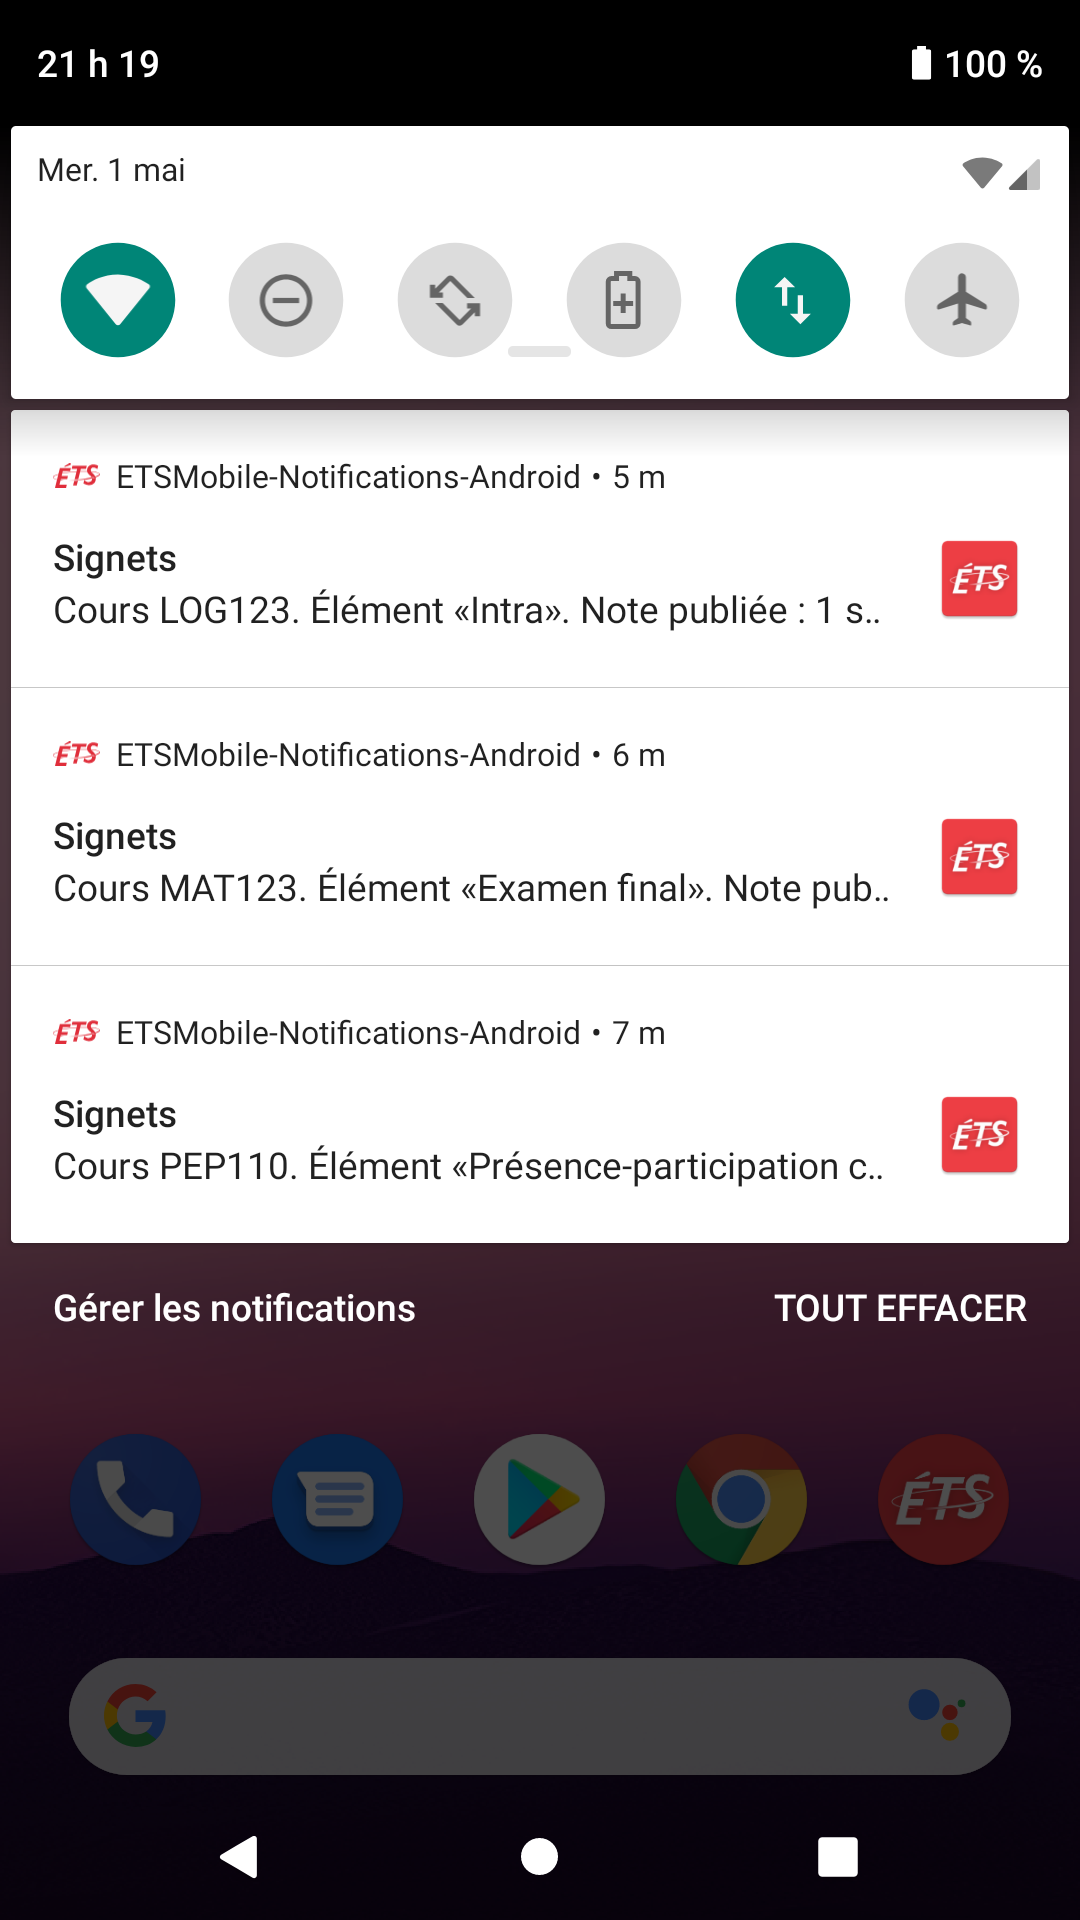
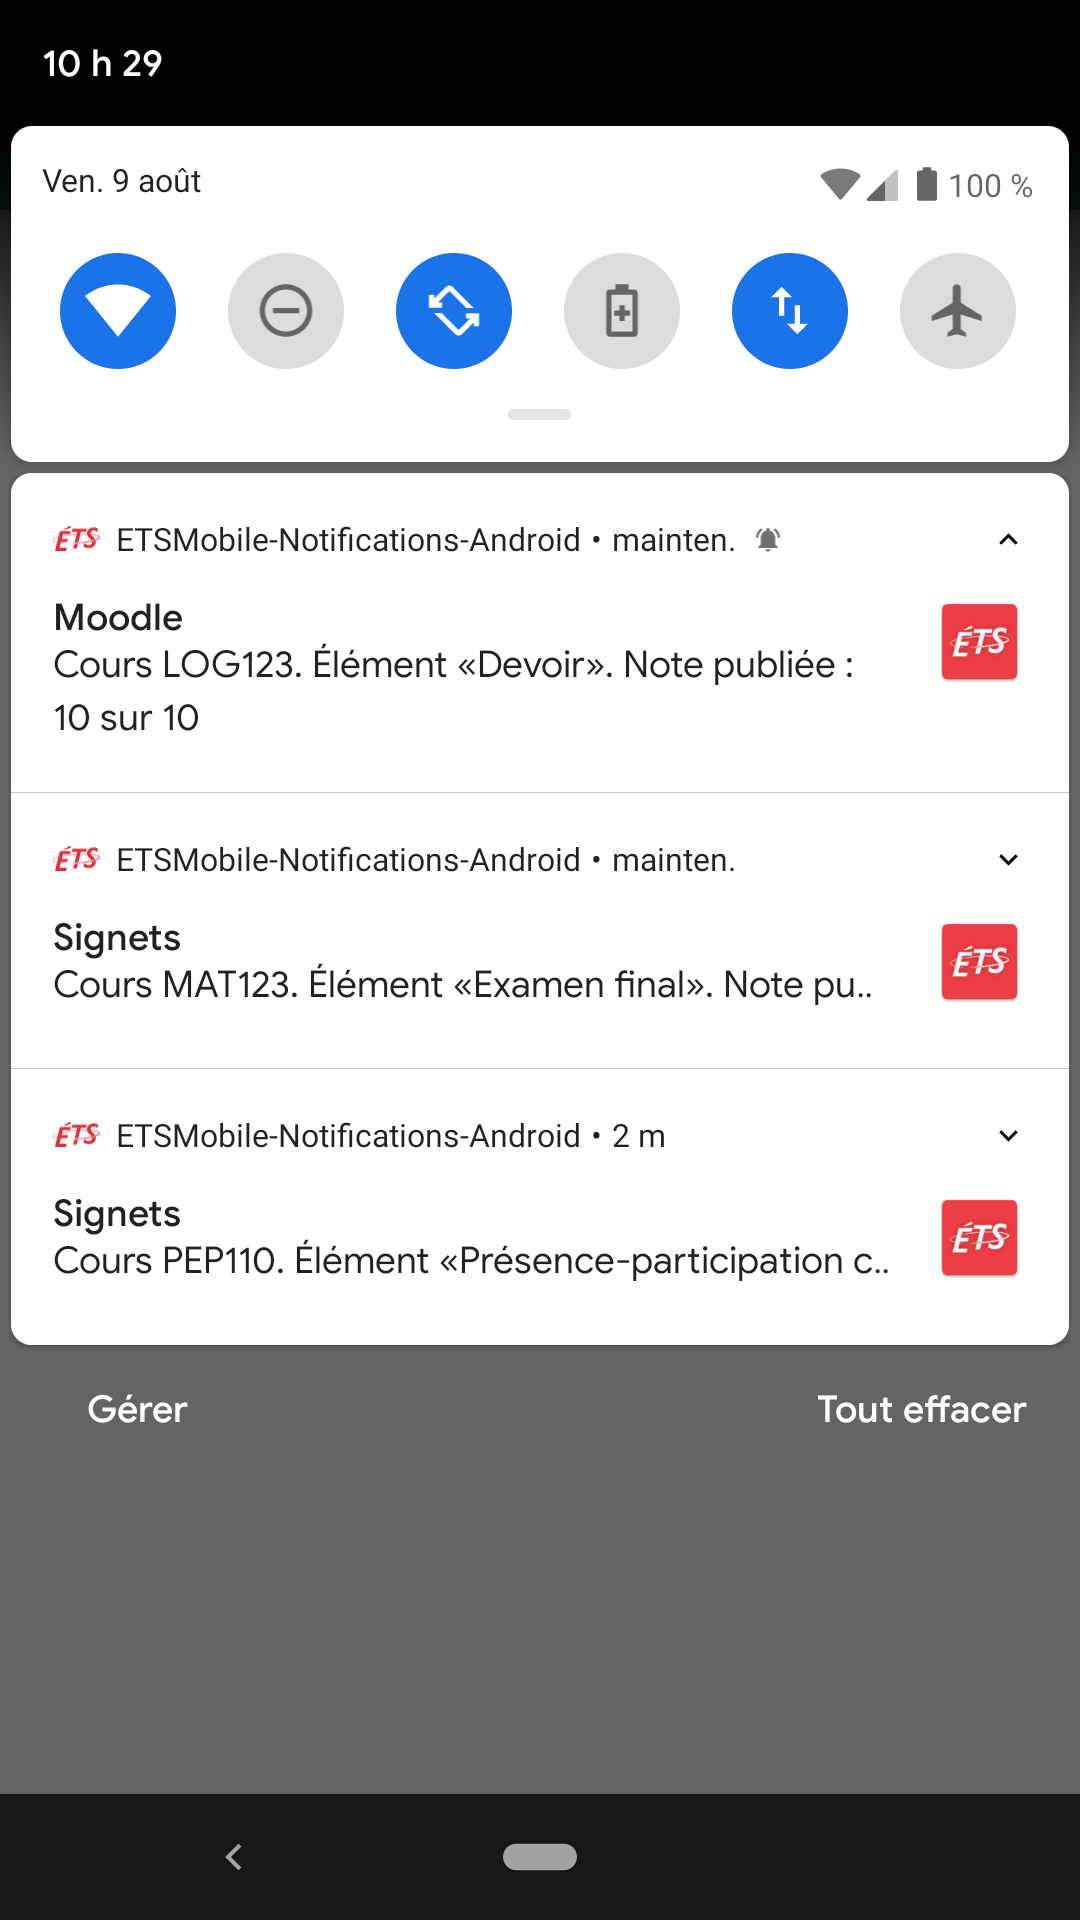
Set big text style to allow user to expand the notification and see the whole text

diff --git a/etsmobilenotifications/src/main/java/ca/etsmtl/applets/etsmobilenotifications/ETSFcmListenerService.java b/etsmobilenotifications/src/main/java/ca/etsmtl/applets/etsmobilenotifications/ETSFcmListenerService.java
@@ -116,6 +116,9 @@ public abstract class ETSFcmListenerService extends FirebaseMessagingService {
                 .setColor(ContextCompat.getColor(this, R.color.ets_red))
                 .setContentTitle(monETSNotification.getNotificationApplicationNom())
                 .setContentText(monETSNotification.getNotificationTexte())
+                .setStyle(new NotificationCompat
+                        .BigTextStyle()
+                        .bigText(monETSNotification.getNotificationTexte()))
                 .setAutoCancel(true);
 
         if (Build.VERSION.SDK_INT >= Build.VERSION_CODES.O) {
@@ -208,7 +211,7 @@ public abstract class ETSFcmListenerService extends FirebaseMessagingService {
      * Returns the {@link MonETSNotification#getNotificationApplicationNom()} by default whether
      * it's null or not.
      * If this function returns null, a fallback label will we used.
-     *
+     * <p>
      * Note that the label is also used as the {@link NotificationChannel}'s id.
      *
      * @param monETSNotification The {@link MonETSNotification} that is going to be sent

diff --git a/etsmobilenotifications/src/main/java/ca/etsmtl/applets/etsmobilenotifications/NotificationsLoginManager.java b/etsmobilenotifications/src/main/java/ca/etsmtl/applets/etsmobilenotifications/NotificationsLoginManager.java
@@ -54,7 +54,7 @@ public final class NotificationsLoginManager {
      * @param context Context
      * @return True if the user is logged in
      */
-    static boolean isUserLoggedIn(Context context) {
+    public static boolean isUserLoggedIn(Context context) {
         SecurePreferences securePreferences = SecurePreferencesFactory.createSecurePreferences(context);
 
         return securePreferences.getBoolean(Constants.USER_LOGGED_IN_PREF_KEY, false);
